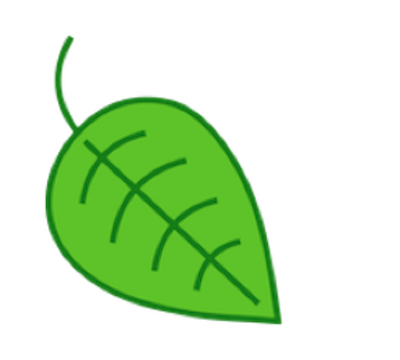
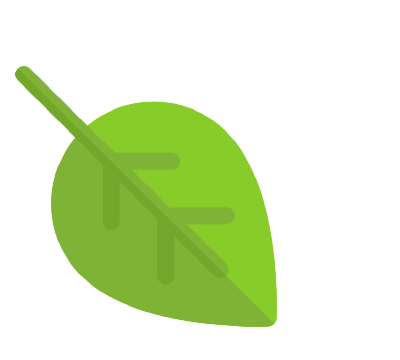
feat(entrance): updated background image

Changed region(s): [[0.03, 0.0917, 0.72, 0.9167]]

diff --git a/public/style.css b/public/style.css
@@ -80,11 +80,11 @@ h4 {
 }
 
 .mole {
-  background-image: url('bug-with-leaf.png');
+  background-image: url('bug-with-leaf-2.png');
 }
 
 .flower {
-  background-image: url('flower-with-leaf.png');
+  background-image: url('flower-with-leaf-2.png');
 }
 
 .bee {
@@ -123,7 +123,7 @@ h4 {
   position: fixed;
   top: 0;
   left: 0;
-  background: url('images/game-screen.png');
+  background: url('images/game-screen-flowers.png');
   background-size: cover;
   -webkit-background-size: cover;
   -moz-background-size: cover;
@@ -280,8 +280,9 @@ h4 {
   justify-content: center;
   align-items: center;
   display: flex;
-  background: url('images/game-screen.png');
+  background: url('images/game-screen-flowers.png');
   background-size: cover;
+  overflow-x: hidden;
 }
 
 #play-container {
@@ -308,7 +309,7 @@ h4 {
   top: 0;
   left: 0;
   display: flex-wrap;
-  background: url('images/game-screen.png');
+  background: url('images/game-screen-flowers.png');
   background-size: cover;
   -webkit-background-size: cover;
   -moz-background-size: cover;
@@ -430,7 +431,7 @@ h4 {
   position: fixed;
   top: 0;
   left: 0;
-  background: url('images/game-screen.png');
+  background: url('images/game-screen-flowers.png');
   background-size: cover;
   -webkit-background-size: cover;
   -moz-background-size: cover;
